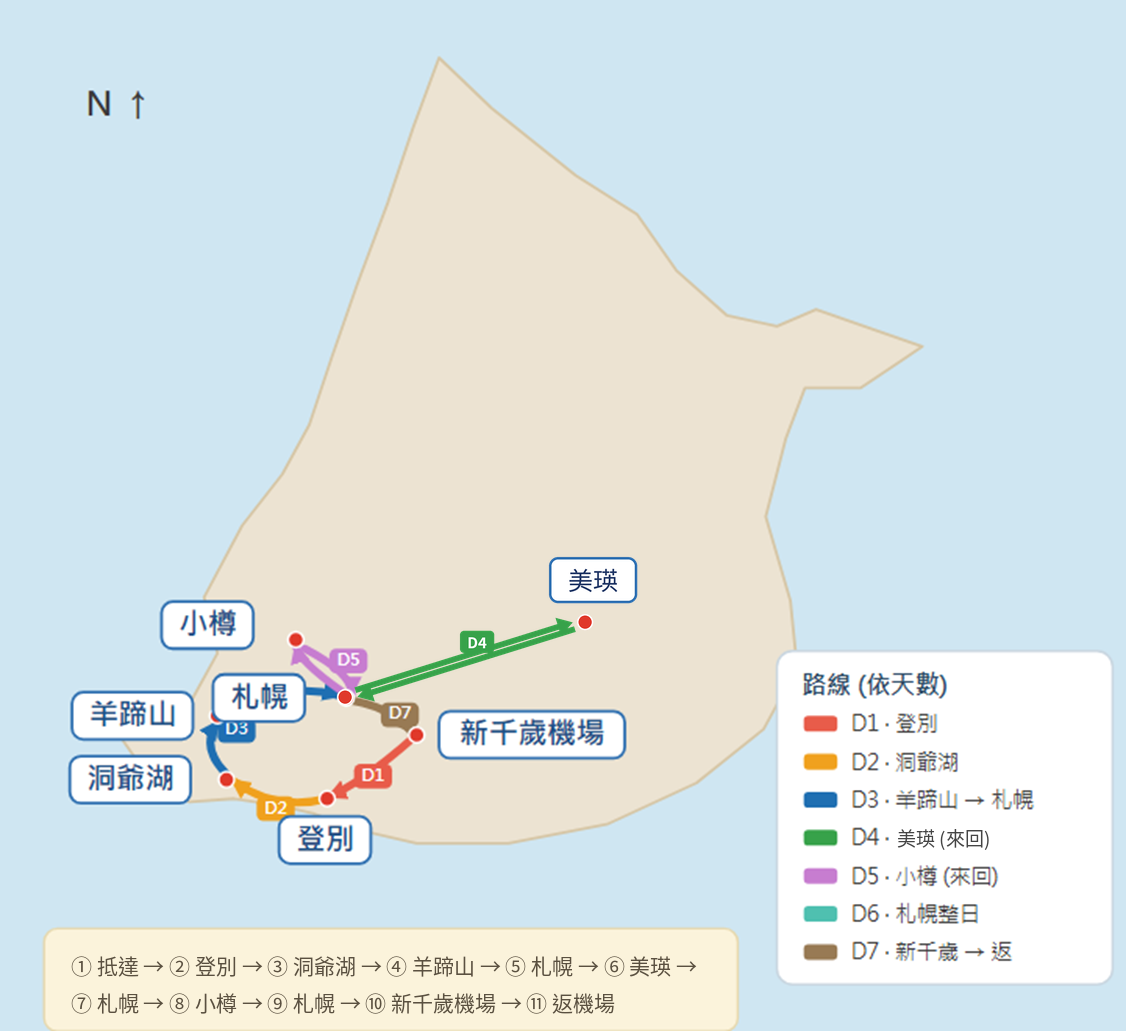
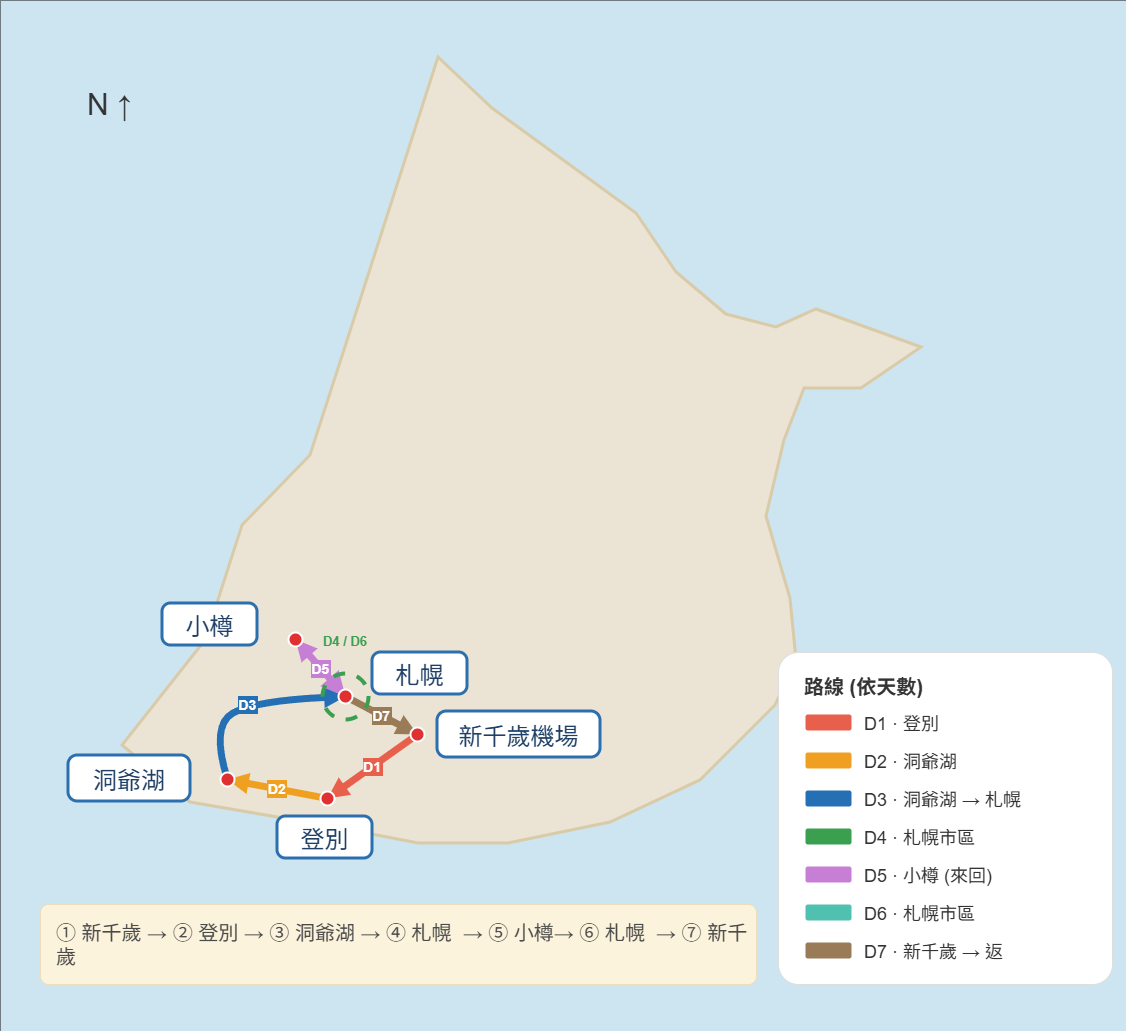
Version 4

diff --git a/index.html b/index.html
@@ -254,10 +254,10 @@
 
 
     <!-- 路線圖 -->
-    <div class="section-title">Map</div>
+    <div class="section-title">Route</div>
     <div class="day-card">
-        <img class="route-map" src="images/route-map.png" alt="北海道自駕路線圖：新千歲 → 登別 → 洞爺湖 → 羊蹄山 → 札幌，往返美瑛與小樽，最後回新千歲">
-        <p class="event-desc" style="margin-top:10px;margin-bottom:0;">① 抵達 → ② 登別 → ③ 洞爺湖 → ④ 羊蹄山 → ⑤ 札幌 → ⑥ 美瑛 → ⑦ 札幌 → ⑧ 小樽 → ⑨ 札幌 → ⑩ 新千歲機場</p>
+        <img class="route-map" src="images/route-map.png" alt="MAP">
+        <p class="event-desc" style="margin-top:10px;margin-bottom:0;">① 新千歲 → ② 登別 → ③ 洞爺湖 → ④ 札幌 → ⑤ 小樽 → ⑥ 札幌 → ⑦ 新千歲 </p>
     </div>
 
     <!-- 每日行程 -->
@@ -283,14 +283,14 @@
         <div class="timeline-item">
             <span class="time">17:00 – 19:00</span>
             <div class="event-title">新千歲 ➔ 登別</div>
-            <div class="transport-tag">🚗 約 1.5–2 hr</div>
+            <div class="transport-tag">🚗 約 1.5hr</div>
             <br><a href="https://www.google.com/maps/dir/?api=1&amp;origin=新千歳空港&amp;destination=登別温泉&amp;travelmode=driving" target="_blank" class="map-btn">🧭導航</a>
         </div>
 
         <div class="timeline-item">
             <span class="time">19:20 – 20:20</span>
             <div class="event-title">晚餐</div>
-            <div class="event-desc">やきとりの一平 登別店 or 登別温泉市場（Onsen Ichiba）</div>
+            <div class="event-desc">やきとりの一平 登別店(開車10~15min) or 登別温泉市場 Onsen Ichiba(走路3~5min)</div>
             <a href="https://www.google.com/maps/dir/24.1762304,120.6779904/Ippei+Noboribetsuten,+2+Chome-26-2+Noboribetsuhigashicho,+Noboribetsu,+Hokkaido+059-0464%E6%97%A5%E6%9C%AC/@31.4618335,109.5149286,4z/data=!3m1!4b1!4m9!4m8!1m1!4e1!1m5!1m1!1s0x5f756389cee9d6af:0xe5e320047210233d!2m2!1d141.1782924!2d42.4539491?entry=ttu&g_ep=EgoyMDI2MTAyOC4wIKXMDSoASAFQAw%3D%3D" target="_blank" class="map-btn ref-btn">📍やきとりの一平</a>
             <a href="https://www.google.com/maps/dir/24.1762304,120.6779904/%E6%BA%AB%E6%B3%89%E5%B8%82%E5%A0%B4+%E6%97%A5%E6%9C%AC%E3%80%92059-0551+Hokkaido,+Noboribetsu,+Noboribetsuonsencho,+%EF%BC%95%EF%BC%90/@31.4814773,109.4982903,4z/data=!3m1!4b1!4m9!4m8!1m1!4e1!1m5!1m1!1s0x5f7566c3f9720959:0xe16be346cd0e6b4f!2m2!1d141.1438883!2d42.4942237?entry=ttu&g_ep=EgoyMDI2MTAyOC4wIKXMDSoASAFQAw%3D%3D" target="_blank" class="map-btn ref-btn">📍Onsen Ichiba</a>
         </div>
@@ -317,6 +317,8 @@
             <a href="https://www.google.com/maps/search/?api=1&amp;query=登別地獄谷" target="_blank" class="map-btn">📍 地獄谷</a>
             <a href="https://www.google.com/maps/search/?api=1&amp;query=大湯沼展望台" target="_blank" class="map-btn">📍 大湯沼展望台</a>
             <a href="https://noboribetsu-spa.jp/tw/spot/spot0034/" target="_blank" class="map-btn ref-btn">🔗 Reference</a>
+            <a href="https://www.google.com/maps/search/?api=1&query=登別地獄谷駐車場" target="_blank" class="map-btn">🅿 地獄谷停車場</a>
+            <a href="https://www.google.com/maps/search/?api=1&query=大湯沼駐車場" target="_blank" class="map-btn">🅿 大湯沼停車場</a>
         </div>
         <div class="timeline-item">
             <span class="time">11:30 – 13:00</span>
@@ -329,19 +331,21 @@
             <div class="event-title">午餐</div>
             <div class="event-desc">洞爺湖溫泉街湖畔</div>
             <a href="https://www.google.com/maps/place/Matsumaeya/@42.5811959,140.7476901,12z/data=!4m6!3m5!1s0x5f9fe297d4571d63:0x74c9fb383177fe5f!8m2!3d42.564849!4d140.82188!16s%2Fg%2F1v8k_fts?entry=ttu&g_ep=EgoyMDI2MTAyOC4wIKXMDSoASAFQAw%3D%3D" target="_blank" class="map-btn">📍 めしどころ松前屋</a>
-            
+            <a href="https://www.google.com/maps/search/?api=1&query=洞爺湖温泉公共駐車場" target="_blank" class="map-btn">🅿 洞爺湖溫泉公共停車場</a>
         </div>
         <div class="timeline-item">
             <span class="time">14:00 – 15:00</span>
             <div class="event-title">SAIRO 展望台</div>
             <a href="https://www.google.com/maps/search/?api=1&amp;query=サイロ展望台+洞爺湖" target="_blank" class="map-btn">📍 SAIRO 展望台</a>
             <a href="https://gototravel.tw/silo-viewing-platform/" target="_blank" class="map-btn ref-btn">🔗 Reference</a>
+            <a href="https://www.google.com/maps/search/?api=1&query=サイロ展望台駐車場" target="_blank" class="map-btn">🅿 SAIRO 展望台停車場</a>
         </div>
 
         <div class="timeline-item">
             <span class="time">15:00 – 16:00</span>
             <div class="event-title">下午茶</div>
             <a href="https://www.google.com/maps/place/Lake+Hill+Farm/@42.6155325,140.7839161,17z/data=!3m1!4b1!4m6!3m5!1s0x5f7556325433ceb7:0x39cb3c4b99b3b88!8m2!3d42.6155325!4d140.786491!16s%2Fg%2F1vxdy2hs?entry=ttu&g_ep=EgoyMDI2MTAyOC4wIKXMDSoASAFQAw%3D%3D" target="_blank" class="map-btn">📍 Lake Hill Farm</a>
+            <a href="https://www.google.com/maps/search/?api=1&query=Lake+Hill+Farm+parking" target="_blank" class="map-btn">🅿停車場</a>
         </div>
 
         <div class="timeline-item">
@@ -415,71 +419,16 @@
 <div class="day-card">
     <div class="day-header">
         <span class="day-number">Day 4</span>
-        <span class="day-date">11/18 (WED) 札幌 & 美瑛</span>
+        <span class="day-date">11/18 (WED) 札幌市區</span>
     </div>
 
-    <div class="day5-options">
-
-        <div class="day5-column">
-
-            <div class="event-title">PLAN A｜美瑛</div>
-
-            <div class="timeline-item">
-                <span class="time">08:30 – 11:00</span>
-                <div class="event-title">札幌 ➔ 美瑛</div>
-                <div class="transport-tag">🚗 約 2.5 hr</div>
-                <a href="https://www.google.com/maps/dir/?api=1&amp;origin=Randor+Hotel+Sapporo+Prestige&amp;destination=Ferme+La+Terre+Biei&amp;travelmode=driving" target="_blank" class="map-btn">🧭導航</a>
-            </div>
-
-            <div class="timeline-item">
-                <span class="time">11:00 – 12:00</span>
-                <div class="event-title">午餐：Ferme La Terre Biei</div>
-                <a href="https://www.google.com/maps/search/?api=1&amp;query=Ferme+La+Terre+Biei" target="_blank" class="map-btn">📍 Ferme La Terre</a>
-            </div>
-
-            <div class="timeline-item">
-                <span class="time">12:15 – 12:45</span>
-                <div class="event-title">美瑛神社</div>
-                <a href="https://www.google.com/maps/search/?api=1&amp;query=美瑛神社" target="_blank" class="map-btn">📍 美瑛神社</a>
-            </div>
-
-            <div class="timeline-item">
-                <span class="time">12:45 – 13:20</span>
-                <div class="event-title">美瑛 ➔ 白金地區</div>
-                <div class="transport-tag">🚗 約 35 min</div>
-            </div>
-
-            <div class="timeline-item">
-                <span class="time">13:20 – 14:00</span>
-                <div class="event-title">白鬚瀑布 &amp; 白金青池</div>
-                <a href="https://www.google.com/maps/search/?api=1&amp;query=白ひげの滝" target="_blank" class="map-btn">📍 白鬚瀑布</a>
-                <a href="https://www.google.com/maps/search/?api=1&amp;query=白金青い池" target="_blank" class="map-btn">📍 白金青池</a>
-            </div>
-
-            <div class="timeline-item">
-                <span class="time">15:00 – 17:30</span>
-                <div class="event-title">美瑛 ➔ 札幌</div>
-                <div class="transport-tag">🚗 約 2.5 hr</div>
-                <a href="https://www.google.com/maps/dir/?api=1&amp;origin=白金青い池&amp;destination=Randor+Hotel+Sapporo+Prestige&amp;travelmode=driving" target="_blank" class="map-btn">🧭導航</a>
-            </div>
-
-            <div class="timeline-item">
-                <span class="time">18:00 – 19:00</span>
-                <div class="event-title">晚餐</div>
-                <a href="" target="_blank" class="map-btn">📍 未定</a>
-            </div>
-        </div>
-
-        <!-- 右側：方案 B 札幌購物 -->
-        <div class="day5-column">
-
-            <div class="event-title">PLAN B｜札幌市區</div>
+            <div class="event-title">札幌市區</div>
 
             <div class="timeline-item">
                 <span class="time">09:00 – 10:00</span>
                 <div class="event-title">二條市場</div>
-                <a href="https://www.google.com/maps/search/?api=1&query=二条市場+札幌"
-                target="_blank" class="map-btn">📍 二條市場</a>
+                <a href="https://www.google.com/maps/search/?api=1&query=二条市場+札幌" target="_blank" class="map-btn">📍 二條市場</a>
+                <a href="https://www.google.com/maps/search/?api=1&query=二条市場周辺コインパーキング" target="_blank" class="map-btn">🅿 二條市場附近停車場</a>
             </div>
 
             <div class="timeline-item">
@@ -487,6 +436,7 @@
                 <div class="event-title">北海道大學</div>
                 <a href="https://www.google.com/maps/search/?api=1&query=北海道大学"
                 target="_blank" class="map-btn">📍 北海道大學</a>
+                <a href="https://www.google.com/maps/search/?api=1&query=北海道大学周辺コインパーキング" target="_blank" class="map-btn">🅿 北海道大學周邊停車場</a>
             </div>
 
             <div class="timeline-item">
@@ -498,13 +448,16 @@
                 <span class="time">13:00 – 14:30</span>
                 <div class="event-title">狸小路</div>
                 <a href="https://www.google.com/maps/search/?api=1&amp;query=狸小路商店街" target="_blank" class="map-btn">📍 狸小路</a>
+                <a href="https://www.google.com/maps/search/?api=1&query=三井のリパーク3・5狸パーキング" target="_blank" class="map-btn">🅿 三井のリパーク 3・5 狸パーキング</a>
             </div>
 
             <div class="timeline-item">
                 <span class="time">15:00 – 17:30</span>
                 <div class="event-title">藻岩山夜景</div>
+                <div class="event-desc">需要買票</div>
                 <a href="https://mt-moiwa.jp/"
                 target="_blank" class="map-btn ref-btn">🔗 Official Website</a>
+                <a href="https://www.google.com/maps/search/?api=1&query=札幌もいわ山ロープウェイ山麓駅駐車場" target="_blank" class="map-btn">🅿 藻岩山山麓站停車場</a>
             </div>
 
             <div class="timeline-item">
@@ -513,9 +466,7 @@
                 <a href="" target="_blank" class="map-btn">📍 未定</a>
             </div>
 
-        </div>
     </div>
-</div>
     <!-- Day 5 -->
     <div class="day-card">
         <div class="day-header">
@@ -533,6 +484,8 @@
             <div class="event-title">三角市場</div>
             <a href="https://www.google.com/maps/search/?api=1&amp;query=小樽三角市場" target="_blank" class="map-btn">📍 三角市場</a>
             <a href="https://bobbytravel.tw/sankaku-market/" target="_blank" class="map-btn ref-btn">🔗 Reference</a>
+            <a href="https://www.google.com/maps/search/?api=1&query=小樽市駅横駐車場" target="_blank" class="map-btn">🅿 小樽市駅橫停車場</a>
+            <a href="https://www.google.com/maps/search/?api=1&query=小樽市駅前広場駐車場" target="_blank" class="map-btn">🅿 小樽站前廣場停車場</a>
         </div>
         <div class="timeline-item">
             <span class="time">11:30 – 12:30</span>
@@ -586,6 +539,8 @@
             target="_blank" class="map-btn">📍 北海道神宮</a>
             <a href="https://www.google.com/maps/search/?api=1&query=円山公園+札幌"
             target="_blank" class="map-btn">📍 圓山公園</a>
+            <a href="https://www.google.com/maps/search/?api=1&query=北海道神宮西駐車場" target="_blank" class="map-btn">🅿 北海道神宮西側停車場</a>
+            <a href="https://www.google.com/maps/search/?api=1&query=北海道神宮東駐車場" target="_blank" class="map-btn">🅿 北海道神宮東側停車場</a>
         </div>
 
         <div class="timeline-item">
@@ -599,6 +554,7 @@
             <div class="event-title">札幌伏見稻荷神社</div>
             <a href="https://www.google.com/maps/search/?api=1&query=札幌伏見稲荷神社"
             target="_blank" class="map-btn">📍 伏見稻荷神社</a>
+            <a href="https://www.google.com/maps/search/?api=1&query=札幌伏見稲荷神社駐車場" target="_blank" class="map-btn">🅿 札幌伏見稻荷神社停車場</a>
         </div>
 
         <div class="timeline-item">
@@ -614,6 +570,7 @@
             <div class="event-title">晚餐 湯咖哩</div>
             <a href="https://www.google.com/maps/search/?api=1&query=スープカレーGARAKU札幌本店"
             target="_blank" class="map-btn">📍 GARAKU 札幌本店</a>
+            <a href="https://www.google.com/maps/search/?api=1&query=駐車場+スープカレーGARAKU札幌本店" target="_blank" class="map-btn">🅿 附近停車場</a>
         </div>
 
         <div class="timeline-item">
